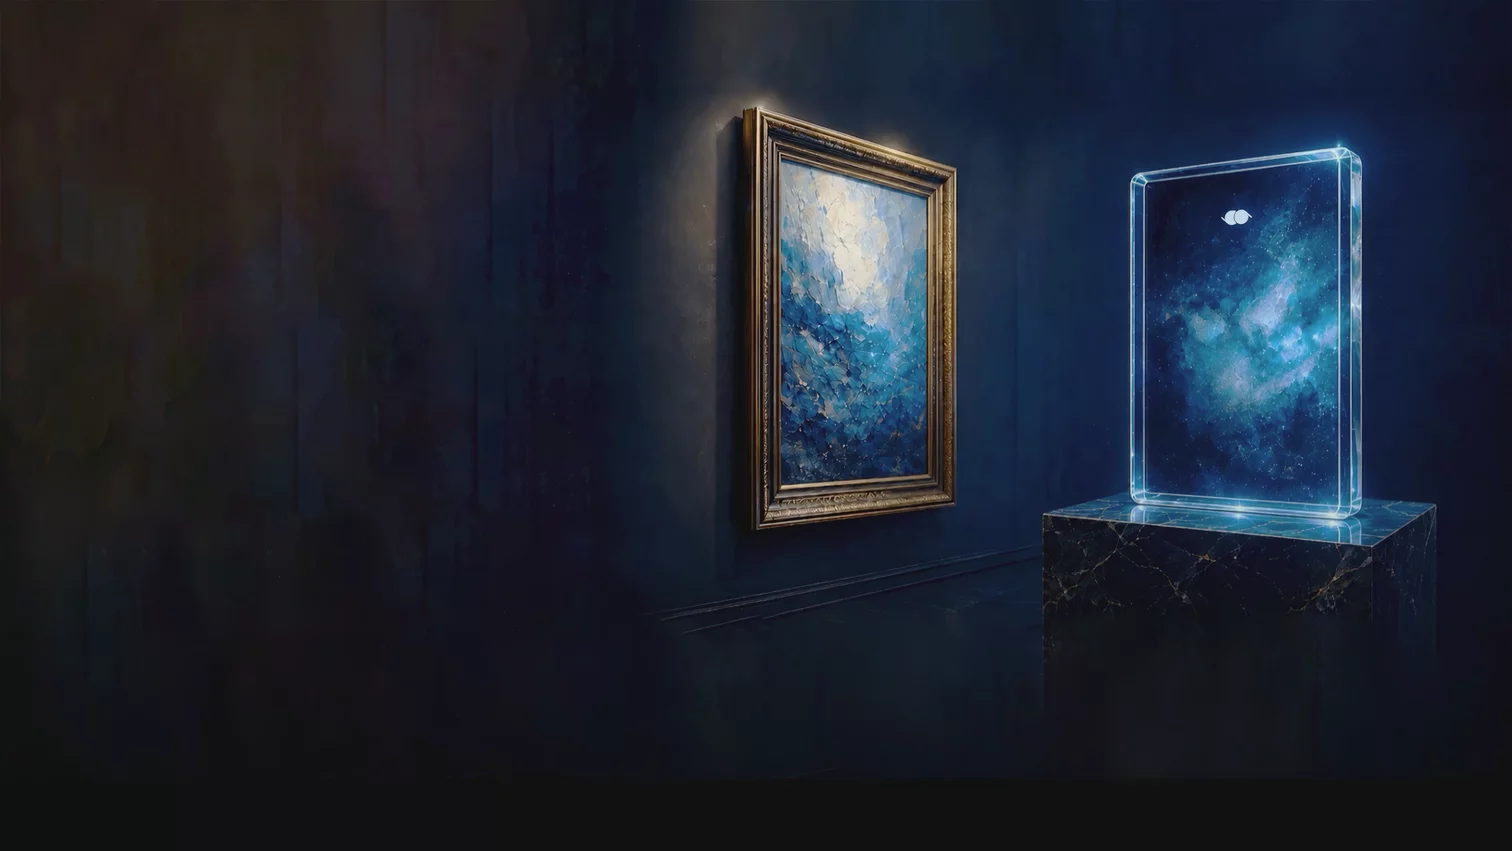
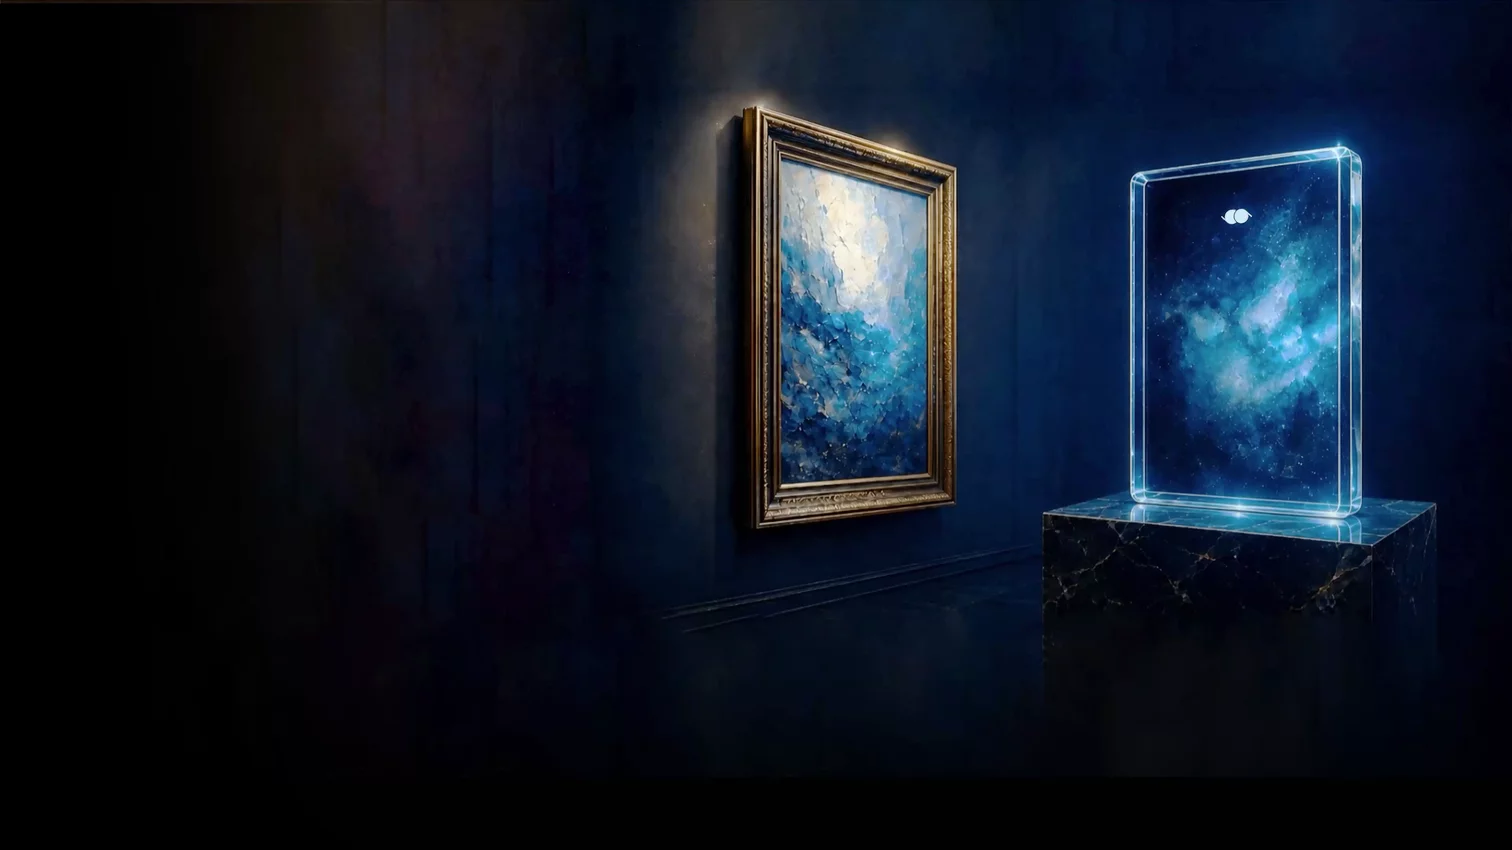
Align hero poster with signed video frame

diff --git a/src/index.css b/src/index.css
@@ -25,6 +25,42 @@ img {
   display: block;
 }
 
+.hero-media-frame {
+  background: #010101;
+  isolation: isolate;
+}
+
+.hero-media-poster,
+.hero-video-player {
+  display: block;
+  width: 100%;
+  height: 100%;
+  background: #010101;
+  -webkit-transform: translateZ(0);
+  transform: translateZ(0);
+  -webkit-backface-visibility: hidden;
+  backface-visibility: hidden;
+}
+
+.hero-media-poster {
+  object-fit: cover;
+  object-position: top center;
+}
+
+.hero-video-player {
+  overflow: hidden;
+  contain: paint;
+}
+
+.hero-video-player::part(video),
+.hero-video-player::part(poster),
+.hero-video-player::part(img) {
+  width: 100%;
+  height: 100%;
+  object-fit: cover;
+  object-position: top center;
+}
+
 [data-kv-from],
 [data-reveal],
 [data-reveal-stagger] > * {

diff --git a/src/components/HeroSection.tsx b/src/components/HeroSection.tsx
@@ -90,12 +90,12 @@ export function HeroSection({ content }: HeroSectionProps) {
   return (
     <section id="top" className="relative h-[450px] overflow-clip bg-ink sm:h-[650px] md:h-[700px] lg:h-[790px] xl:h-[950px]">
       <div className="absolute left-0 top-0 h-[292px] w-full overflow-hidden bg-ink sm:h-[610px] md:h-[660px] lg:h-[740px] xl:h-[850px]" data-kv-from="right" data-kv-delay="0">
-        <div className="absolute inset-x-0 top-0 aspect-[1512/850] w-full overflow-hidden sm:mx-auto sm:max-w-[1512px] xl:left-1/2 xl:right-auto xl:h-[850px] xl:w-[1512px] xl:-translate-x-1/2 xl:overflow-visible xl:[aspect-ratio:auto]">
+        <div className="hero-media-frame absolute inset-x-0 top-0 aspect-[1512/850] w-full overflow-hidden sm:mx-auto sm:max-w-[1512px] xl:left-1/2 xl:right-auto xl:h-[850px] xl:w-[1512px] xl:-translate-x-1/2 xl:[aspect-ratio:auto]">
           <img
             src={HERO_POSTER_SRC}
             alt=""
             aria-hidden="true"
-            className="absolute inset-0 h-full w-full object-contain object-top xl:h-full"
+            className="hero-media-poster absolute inset-0 h-full w-full"
             decoding="async"
             fetchPriority="high"
             draggable={false}
@@ -112,7 +112,7 @@ export function HeroSection({ content }: HeroSectionProps) {
                 maxResolution={heroVideoResolution}
                 renditionOrder="desc"
                 capRenditionToPlayerSize={false}
-                className="relative z-[1] h-full w-full object-contain object-top transition-opacity duration-700 xl:h-full"
+                className="hero-video-player relative z-[1] h-full w-full transition-opacity duration-700"
                 style={{ opacity: isHeroVideoReady ? 1 : 0 }}
                 autoPlay="muted"
                 muted